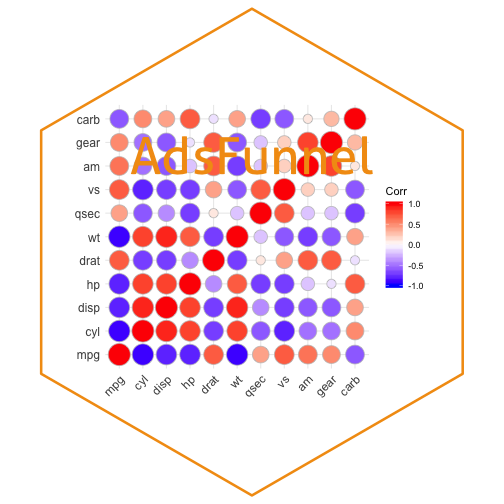
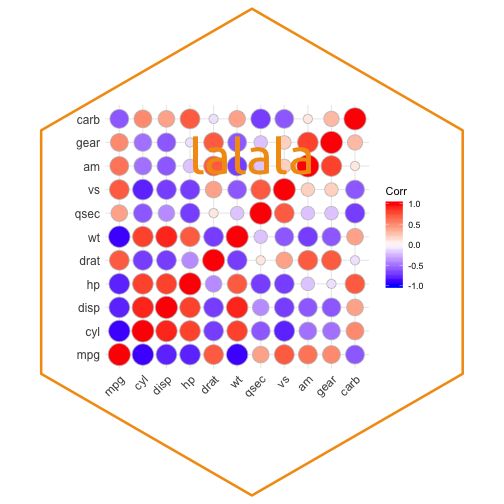
changes to posts

Changed region(s): [[0.2381, 0.2679, 0.744, 0.3571]]

diff --git a/_blog/08/GeYawei.md b/_blog/08/GeYawei.md
@@ -37,9 +37,9 @@ p
 ![center](../figure/08/GeYawei/unnamed-chunk-1-1.png)
 
 {% highlight r %}
-ggsave(file="p.svg", plot=p, width=10, height=10)
-ggsave(file="p.png", plot=p, width=10, height=10)
-ggsave(file="p.pdf", plot=p, width=10, height=10)
+#ggsave(file="p.svg", plot=p, width=10, height=10)
+#ggsave(file="p.png", plot=p, width=10, height=10)
+#ggsave(file="p.pdf", plot=p, width=10, height=10)
 {% endhighlight %}
 
 Acoording to my plot and its saved files, the size of the file increases in the order: PDF, SVG, PNG (5-45KB). And I can't distinguish the quality diferences. But obviously, vector image is quite stable when stretched and PDF is suitable for print and share.
@@ -58,6 +58,9 @@ picture <- picture %>%
   image_convolve('Sobel') %>%
   image_negate() 
 
-sticker(picture, s_x = 1, s_width = 0.95, s_height = 0.95, package = "elephant", p_color = "black", p_size = 15, h_color = "black", h_fill = "white")
+#sticker(picture, s_x = 1, s_width = 0.95, s_height = 0.95, package = "elephant", p_color = "black", p_size = 15, h_color = "black", h_fill = "white")
+knitr::include_graphics("https://yaweige.github.io/post/stickers/elephant.png")
 {% endhighlight %}
+
+![center](.https://yaweige.github.io/post/stickers/elephant.png)
 

diff --git a/_topics/09.md b/_topics/09.md
@@ -39,7 +39,7 @@ Read the following sections of w3schools.com's Introduction to XML:
 
 ## Prompt:
 
-**Write a blog post answering the following questions and detailing the progress: **
+**Write a blog post answering the following questions and detailing the progress:**
 
 1. The `xml2` R package can be used to work with xml files. Write a function, `current_weather` that accepts a 4-letter airport code (KAMW in the URL here: https://w1.weather.gov/xml/current_obs/KAMW.xml) and returns a data frame with the airport location (station ID, latitude, longitude), last update time, and current weather information (temperature, weather condition, wind speed and direction) at that airport. The `xml2` functions `read_xml`, `xml_children`, `xml_name`, and `xml_text` will be useful. Remember to handle errors and check inputs, and make sure to return a data frame with appropriate data types. 
 2. Which HTML tags did you investigate? Describe how to format at least 3 separate pieces of a document using HTML tags.

diff --git a/_blog/08/EnglishLydia.md b/_blog/08/EnglishLydia.md
@@ -87,9 +87,9 @@ print(butterfly)
 
 {% highlight r %}
 library(hexSticker)
-p <- sticker(butterfly, package = "Vegan", p_color = "darkgreen", h_fill = "white", s_width = 1.2, s_height = 1, s_x = 1, s_y = 0.9, p_x = 1, p_y = 1.65, p_size = 16)
-plot(p)
+sticker(butterfly, package = "Vegan", p_color = "darkgreen", h_fill = "white", s_width = 1.2, s_height = 1, s_x = 1, s_y = 0.9, p_x = 1, p_y = 1.65, p_size = 16)
+knitr::include_graphics("Vegan.png")
 {% endhighlight %}
 
-![center](../figure/08/EnglishLydia/unnamed-chunk-2-3.png)
+![center](.Vegan.png)
 

diff --git a/_blog/08/ZhangXin.md b/_blog/08/ZhangXin.md
@@ -115,7 +115,7 @@ Compare the three formats. PNG is the largest and SVG is the smallest. The densi
 
 
 {% highlight r %}
-sticker_c <- sticker(c, package = "AdsFunnel", p_size=18, p_color = "#f39c12",
+sticker_c <- sticker(c, package = "lalala", p_size=18, p_color = "#f39c12",
              s_x=1, s_y=1, s_width=1.5, s_height = 1.5, 
              h_fill="#FFFFFF", h_color="#f39c12")
 sticker_c 
